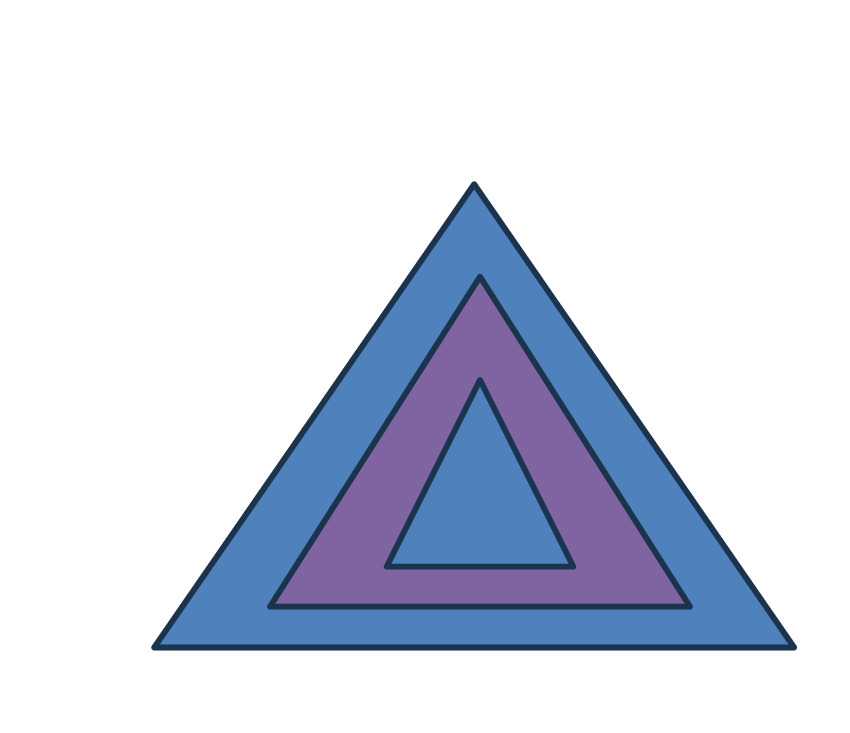
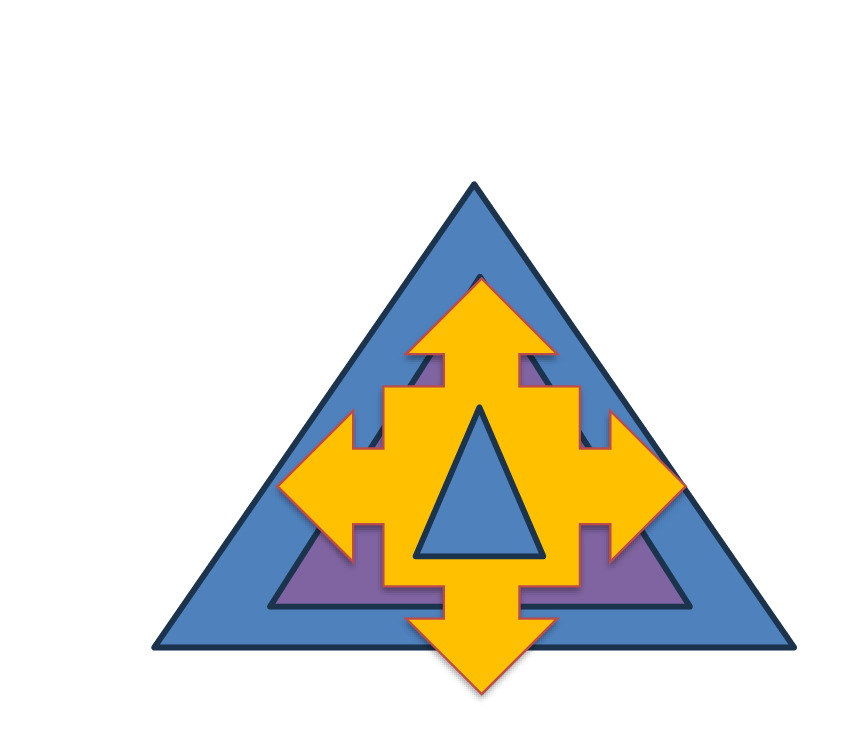
updated target images and deletedtryouts of animation

Changed region(s): [[0.3059, 0.3602, 0.8259, 0.9604]]

diff --git a/Assets/PlayCubeWiggle.cs b/Assets/PlayCubeWiggle.cs
@@ -1,0 +1,6 @@
+using UnityEngine;
+
+public class PlayCubeWiggle
+{
+    
+}
